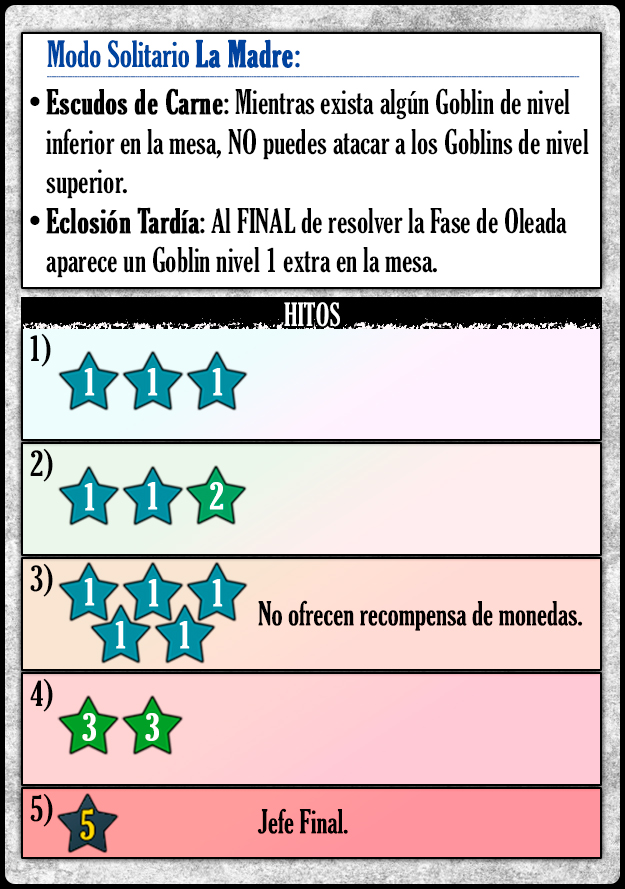
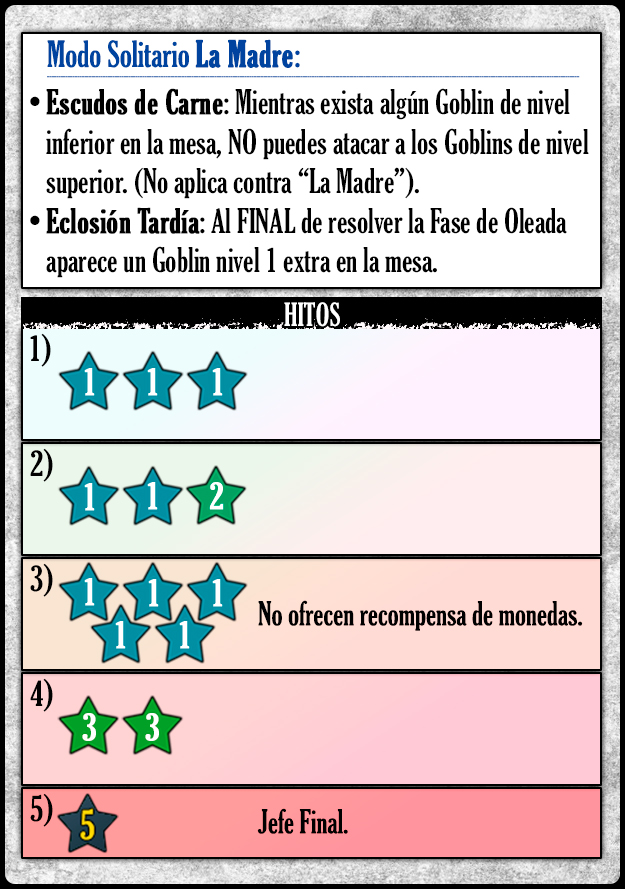
v2.7: Sync initial settings modal to main setup UI so choosing Senda/Difficulty from the settings gear before starting the game doesn't get ignored

Changed region(s): [[0.2128, 0.1822, 0.6688, 0.243]]

diff --git a/js/app.js b/js/app.js
@@ -718,6 +718,16 @@ function openSettingsModal() {
         window.syncCustomDifficultySelect();
       }
     }
+  } else {
+    // Sincronizar desde la pantalla principal al engranaje si la partida no ha empezado
+    const selectSettingsSenda = document.getElementById('select-settings-senda');
+    const selectSendaMain = document.getElementById('select-senda');
+    if (selectSettingsSenda && selectSendaMain) {
+      selectSettingsSenda.value = selectSendaMain.value;
+      if (window.syncCustomSettingsSendaSelect) {
+        window.syncCustomSettingsSendaSelect();
+      }
+    }
   }
   settingsModal.classList.remove('hidden');
 }
@@ -1563,6 +1573,25 @@ document.getElementById('btn-save-settings').addEventListener('click', () => {
     updateUI();
     if (typeof window !== 'undefined' && window.saveGame) {
       window.saveGame(true);
+    }
+  } else {
+    // Sincronizar desde el engranaje a la pantalla principal si la partida no ha empezado
+    const selectSettingsSenda = document.getElementById('select-settings-senda');
+    const selectSendaMain = document.getElementById('select-senda');
+    if (selectSettingsSenda && selectSendaMain) {
+      selectSendaMain.value = selectSettingsSenda.value;
+      // Actualizar la interfaz personalizada de la pantalla de inicio
+      const triggerBtn = selectSendaMain.nextElementSibling;
+      if (triggerBtn && triggerBtn.classList.contains('custom-select-container')) {
+        const textSpan = triggerBtn.querySelector('span');
+        const nativeOpt = selectSendaMain.options[selectSendaMain.selectedIndex];
+        if (textSpan && nativeOpt) {
+          textSpan.textContent = nativeOpt.text;
+        }
+      }
+      if (typeof window.updateSetupSendaPreview === 'function') {
+        window.updateSetupSendaPreview();
+      }
     }
   }
   closeAllCustomSelects();

diff --git a/index.html b/index.html
@@ -5,7 +5,7 @@
     <meta charset="UTF-8">
     <meta name="viewport" content="width=device-width, initial-scale=1.0">
     <title>Malditos Goblins</title>
-    <link rel="stylesheet" href="css/style.css?v=2.6">
+    <link rel="stylesheet" href="css/style.css?v=2.7">
     <link href="https://fonts.googleapis.com/css2?family=Cinzel:wght@400;700&family=Inter:wght@300;400;600&display=swap"
         rel="stylesheet">
 </head>
@@ -745,12 +745,12 @@
         </div>
     </div>
 
-    <script src="js/database.js?v=2.6"></script>
-    <script src="js/GameState.js?v=2.6"></script>
-    <script src="js/UIManager.js?v=2.6"></script>
-    <script src="js/DragDropManager.js?v=2.6"></script>
-    <script src="js/CombatManager.js?v=2.6"></script>
-    <script src="js/app.js?v=2.6"></script>
+    <script src="js/database.js?v=2.7"></script>
+    <script src="js/GameState.js?v=2.7"></script>
+    <script src="js/UIManager.js?v=2.7"></script>
+    <script src="js/DragDropManager.js?v=2.7"></script>
+    <script src="js/CombatManager.js?v=2.7"></script>
+    <script src="js/app.js?v=2.7"></script>
     <!-- DEBUG COMBAT MODAL -->
     <div id="debug-combat-modal" class="hidden" style="position: fixed; top: 60px; right: 20px; width: 550px; max-height: 85vh; overflow: hidden; display: flex; flex-direction: column; text-align: left; border: 2px solid #ff3366; background: rgba(15, 10, 25, 0.95); box-shadow: 0 0 40px rgba(255, 51, 102, 0.4); border-radius: 15px; padding: 20px; z-index: 99999; backdrop-filter: blur(5px);">
         <div id="debug-combat-header" style="display: flex; justify-content: space-between; align-items: center; margin-bottom: 15px; cursor: grab; padding-bottom: 5px; border-bottom: 1px solid rgba(255, 51, 102, 0.3);">
